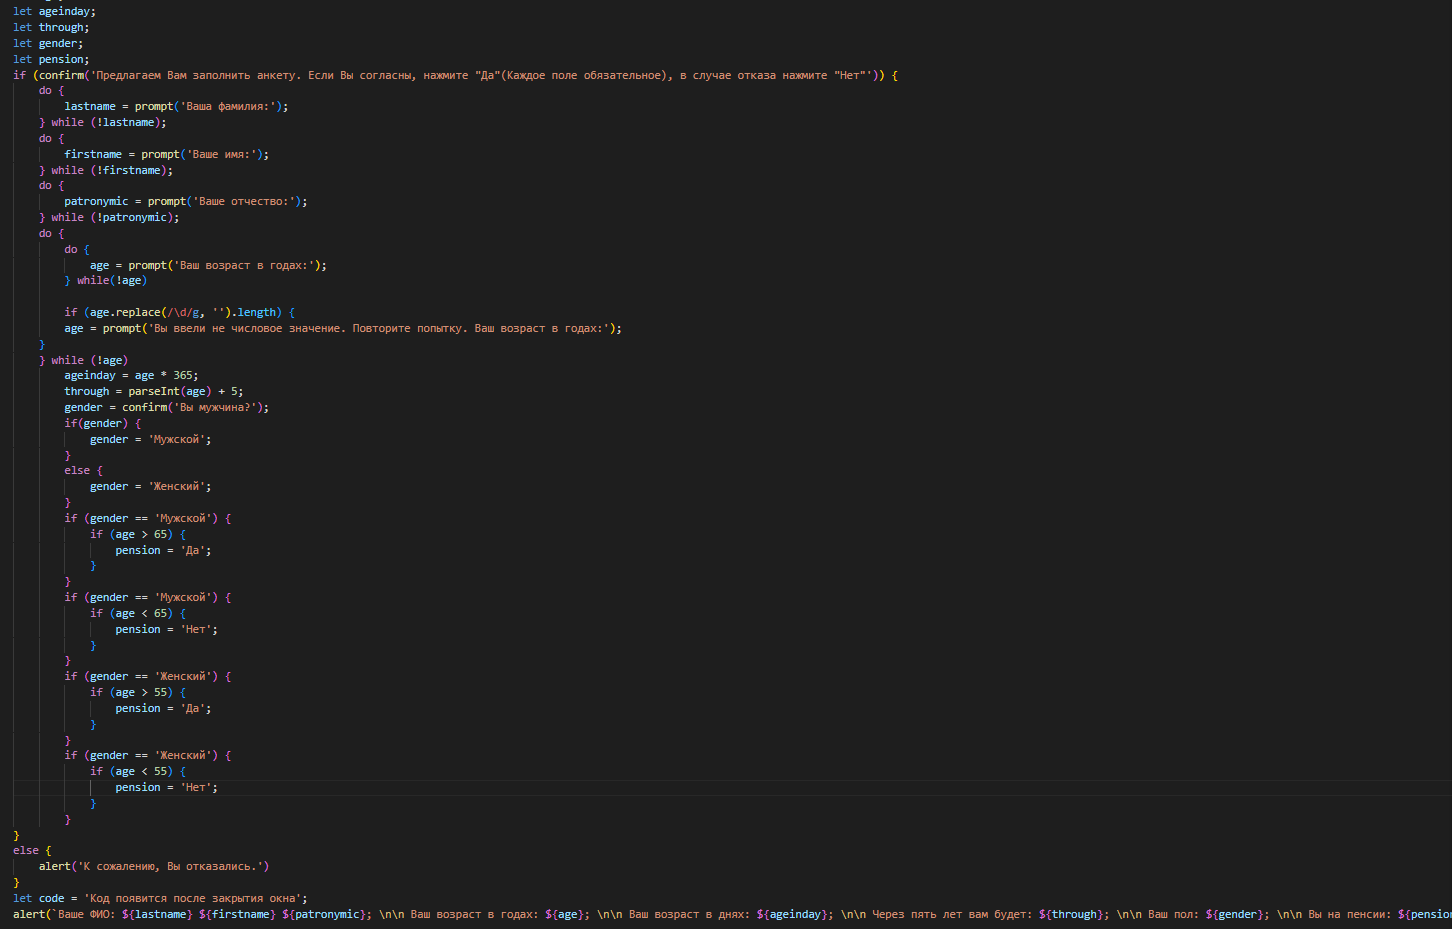
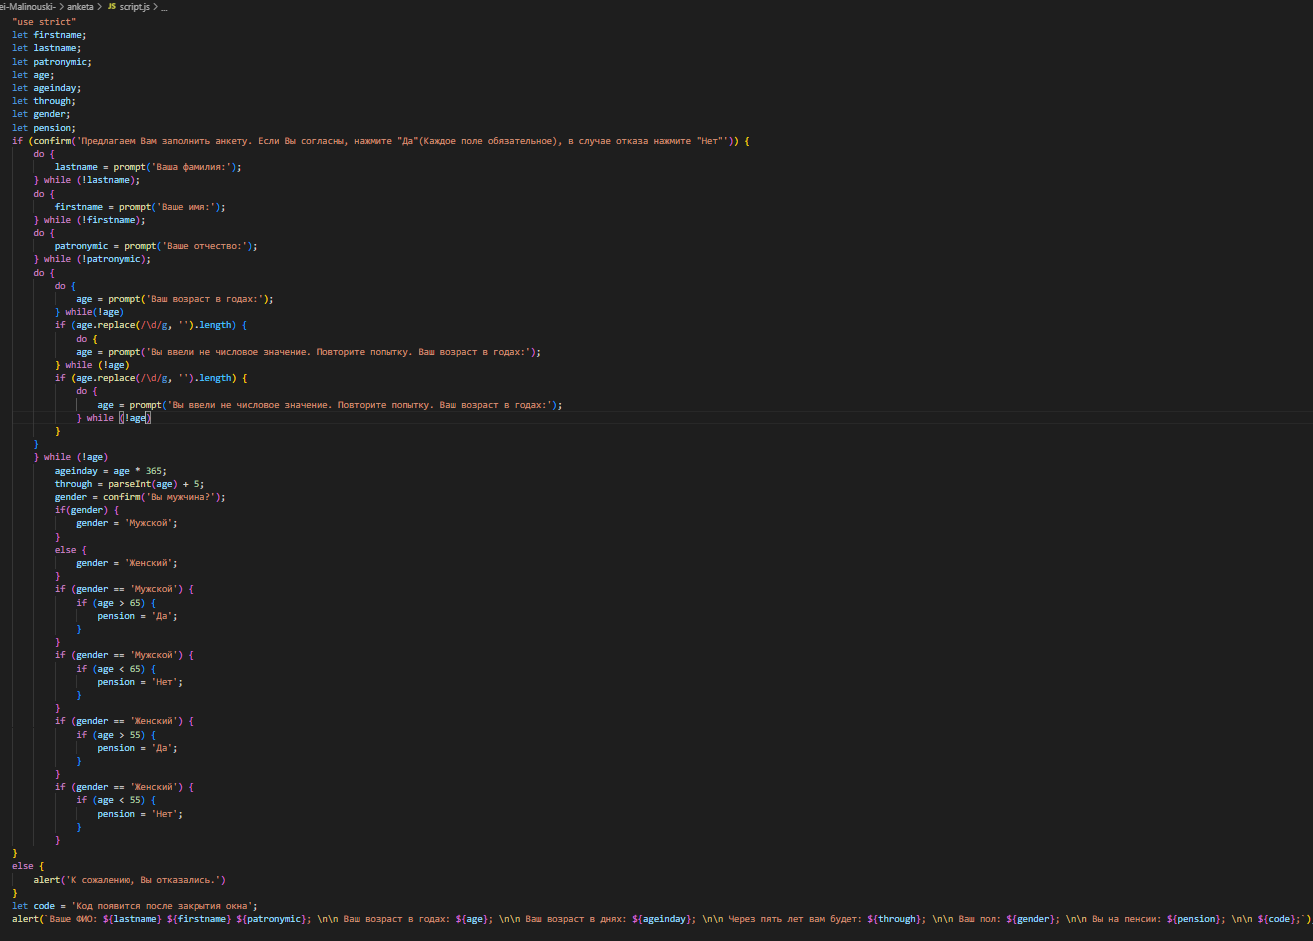
main

Changed region(s): [[0.0, 0.0, 0.5933, 0.8741], [0.0, 0.9053, 1.0, 0.9989]]

diff --git a/anketa/script.js b/anketa/script.js
@@ -21,9 +21,15 @@ if (confirm('Предлагаем Вам заполнить анкету. Есл
         do {
             age = prompt('Ваш возраст в годах:');
         } while(!age)
-       
         if (age.replace(/\d/g, '').length) {
-        age = prompt('Вы ввели не числовое значение. Повторите попытку. Ваш возраст в годах:');
+            do {
+            age = prompt('Вы ввели не числовое значение. Повторите попытку. Ваш возраст в годах:');
+        } while (!age)
+        if (age.replace(/\d/g, '').length) {
+            do {
+                age = prompt('Вы ввели не числовое значение. Повторите попытку. Ваш возраст в годах:');
+            } while (!age)
+        }
     }
     } while (!age)
         ageinday = age * 365;
